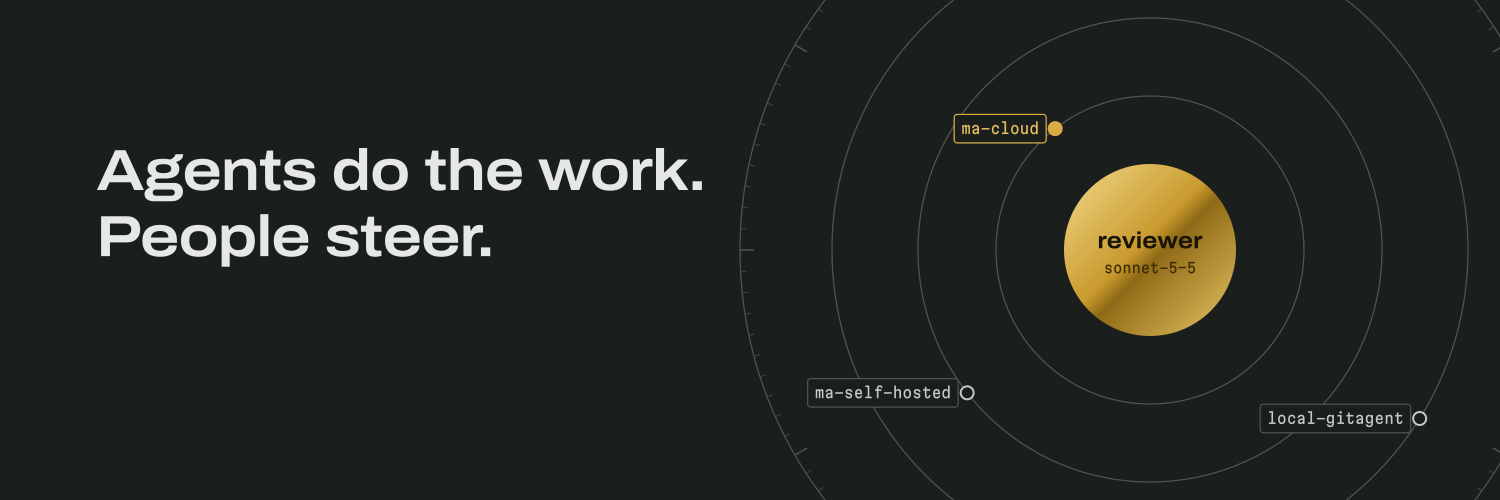
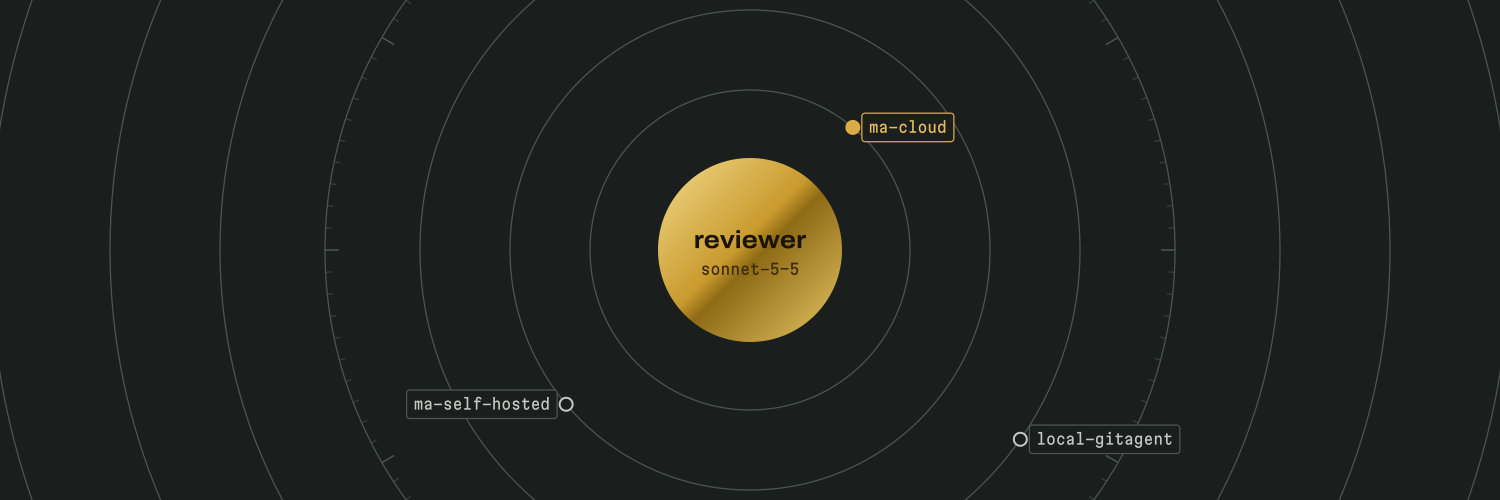
fix(brand): center the X header so phones don't cover it (#53)
X's phone app crops the header's sides and draws its back, menu and
search buttons over the middle of each side, which covered the headline
and the sun. The header now has no text and centers the orbit, with
the hosts placed clear of the app's buttons and status bar and of the
avatar on the web. x_header lists the covered areas.

diff --git a/brand/build.py b/brand/build.py
@@ -276,22 +276,24 @@ def social_preview(t: dict) -> str:
 
 
 HOSTS = [
-    Host("ma-cloud", 0, -128, "w", open=True),
-    Host("ma-self-hosted", 1, 142, "w"),
-    Host("local-gitagent", 2, 32, "w"),
+    Host("ma-cloud", 0, -50, "e", open=True),
+    Host("ma-self-hosted", 1, 140, "w"),
+    Host("local-gitagent", 2, 35, "e"),
 ]
 
 
 def x_header(t: dict) -> str:
-    # X profile header: 1500x500. The avatar covers the bottom left
-    # (about x < 380, y > 330) and phones crop the top and bottom edges.
+    # X profile header: 1500x500. Every client covers part of it, so the
+    # orbit sits in the middle and nothing else carries meaning:
+    # - the web draws the avatar over the bottom left (x < 380, y > 330);
+    # - the phone app shows about the middle 1250px, puts the status bar
+    #   over the top (y < 110), and draws its back button on the left
+    #   (x 160-280) and its menu and search buttons on the right
+    #   (x 1080-1330), all across the middle (y 200-320).
     W, H = 1500, 500
     body = [f'<rect width="{W}" height="{H}" fill="{t["ground"]}"/>']
-    body.append(orrery(1150, 250, 86, [154, 232, 318, 410], 3, HOSTS, t))
-    size = 58
-    body.append(text("Agents do the work.", DISPLAY, size, 96, 190, t["ink"]))
-    body.append(text("People steer.", DISPLAY, size, 96, 190 + size * 1.14, t["ink"]))
-    return svg(W, H, "".join(body), "Solaria: agents do the work, people steer")
+    body.append(orrery(750, 250, 92, [160, 240, 330, 425, 530, 640, 760], 3, HOSTS, t))
+    return svg(W, H, "".join(body), "Solaria: the reviewer agent at the center, its environments in orbit")
 
 
 BANNER_HOSTS = [

diff --git a/brand/README.md b/brand/README.md
@@ -97,4 +97,4 @@ For the organization's profile page, create the public repository `solaria-sh/.g
 
 ### X
 
-See [`x/profile.md`](x/profile.md) for the name, bio and a first post. Upload `avatar/avatar-dark-400.png` as the profile picture and `x/header.png` as the header. The header keeps its bottom-left corner empty, where X draws the avatar, and keeps text away from the top and bottom edges, which phones crop.
+See [`x/profile.md`](x/profile.md) for the name, bio and a first post. Upload `avatar/avatar-dark-400.png` as the profile picture and `x/header.png` as the header. The header has no text, and its orbit sits in the middle: the web draws the avatar over the bottom left, and the phone app crops both sides and puts its status bar and buttons over the top and the middle of each side. `x_header` in `build.py` lists those areas.
